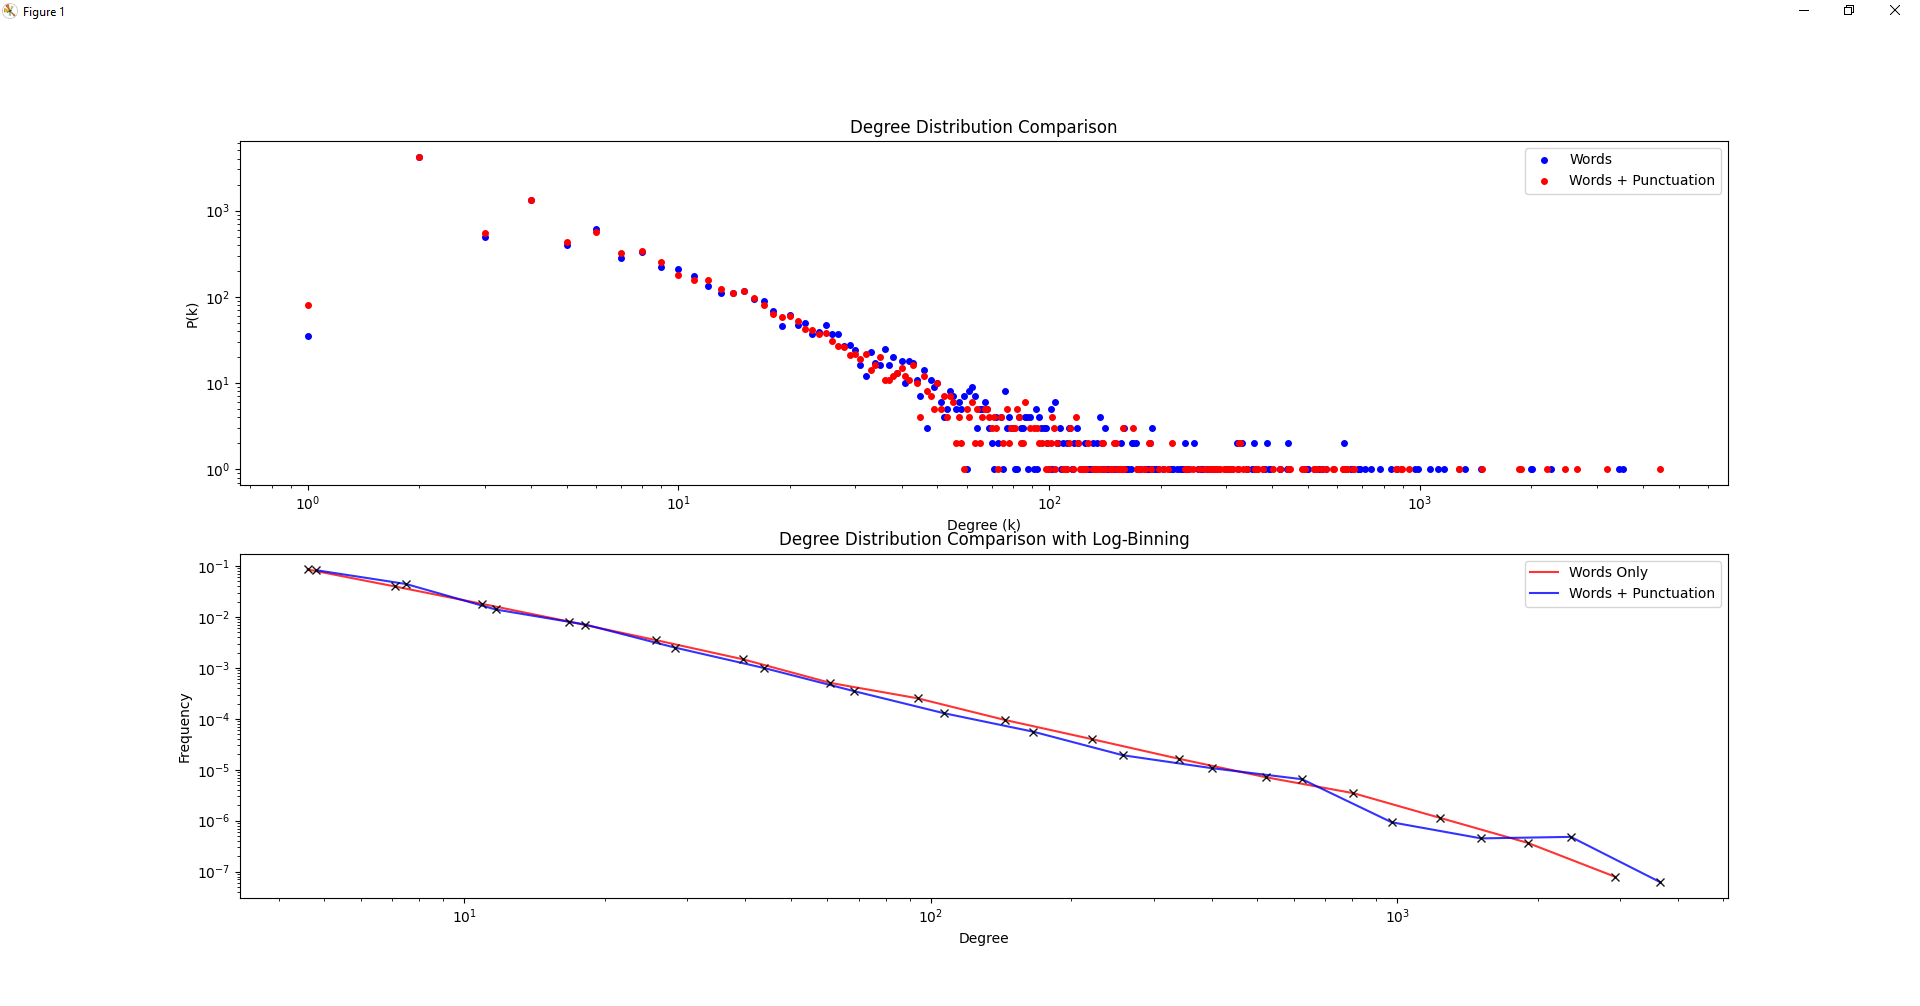
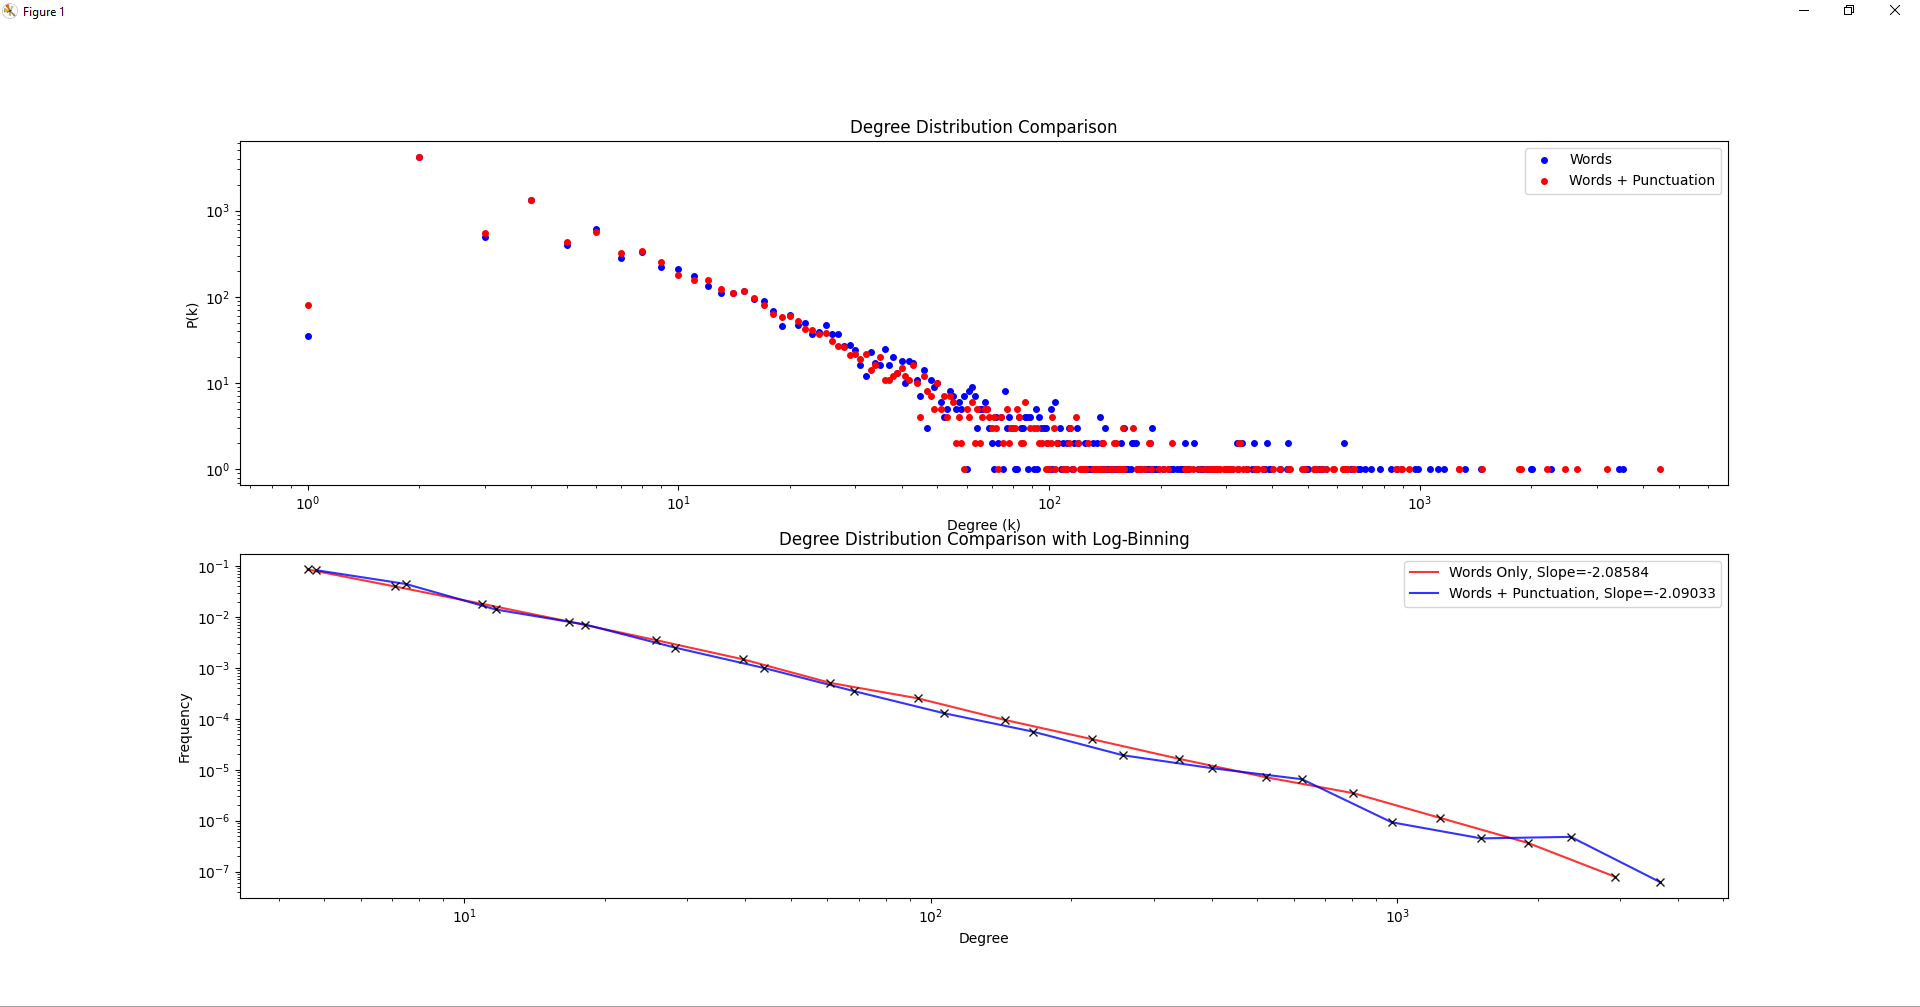
.

diff --git a/Code/mainApp.py b/Code/mainApp.py
@@ -330,6 +330,10 @@ class App(wx.Frame):
         gBinCenters = gBinCenters[gStart: gEnd + 1]
         mBinCenters = mBinCenters[gStart: gEnd + 1]
 
+        # calculate slopes
+        gSlope = self.calculateLogLogSlope(gBinCenters, gBinValues)
+        mSlope = self.calculateLogLogSlope(mBinCenters, mBinValues)
+
         plt.figure(figsize=(12, 10))
 
         plt.subplot(2, 1, 1)
@@ -341,8 +345,8 @@ class App(wx.Frame):
         plt.legend()
 
         plt.subplot(2, 1, 2)
-        plt.loglog(gBinCenters, gBinValues, '-', color='red', alpha=0.8, label='Words Only')
-        plt.loglog(mBinCenters, mBinValues, '-', color='blue', alpha=0.8, label='Words + Punctuation')
+        plt.loglog(gBinCenters, gBinValues, '-', color='red', alpha=0.8, label=f'Words Only, Slope={gSlope:.5f}')
+        plt.loglog(mBinCenters, mBinValues, '-', color='blue', alpha=0.8, label=f'Words + Punctuation, Slope={mSlope:.5f}')
         plt.loglog(gBinCenters, gBinValues, 'x', alpha=0.9, color='black')
         plt.loglog(mBinCenters, mBinValues, 'x', alpha=0.9, color='black')
         plt.xlabel('Degree')
